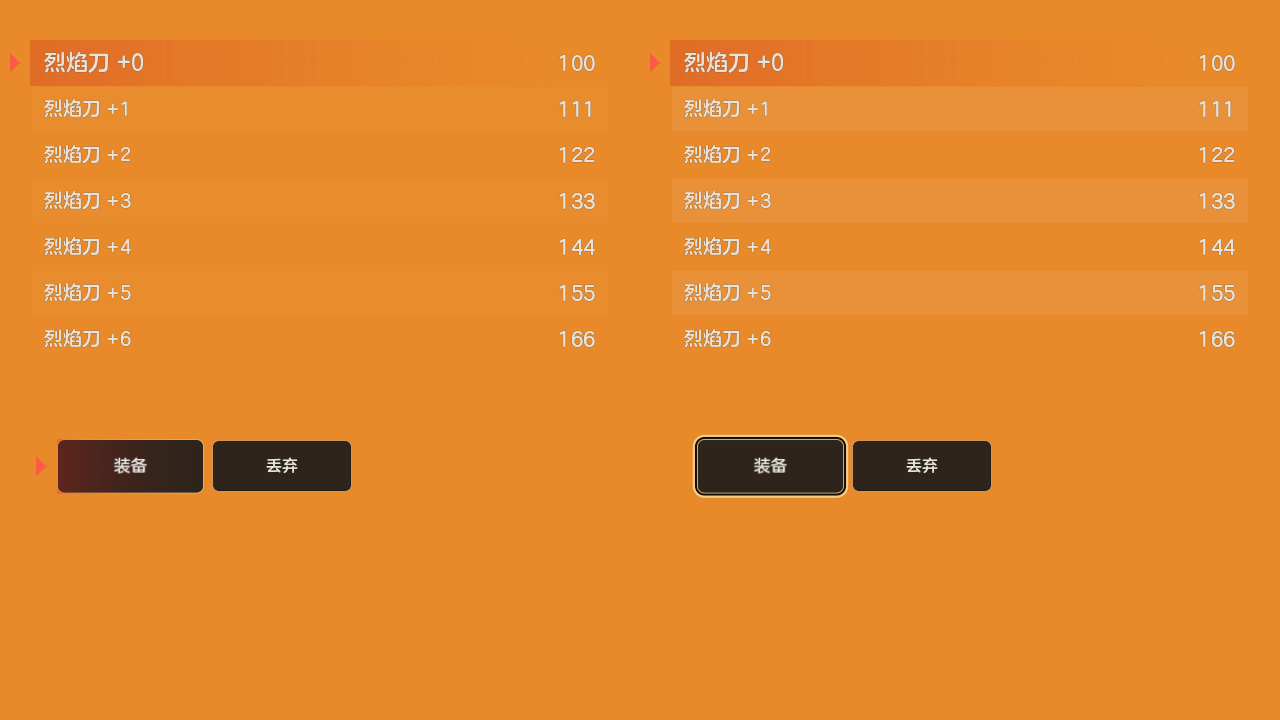
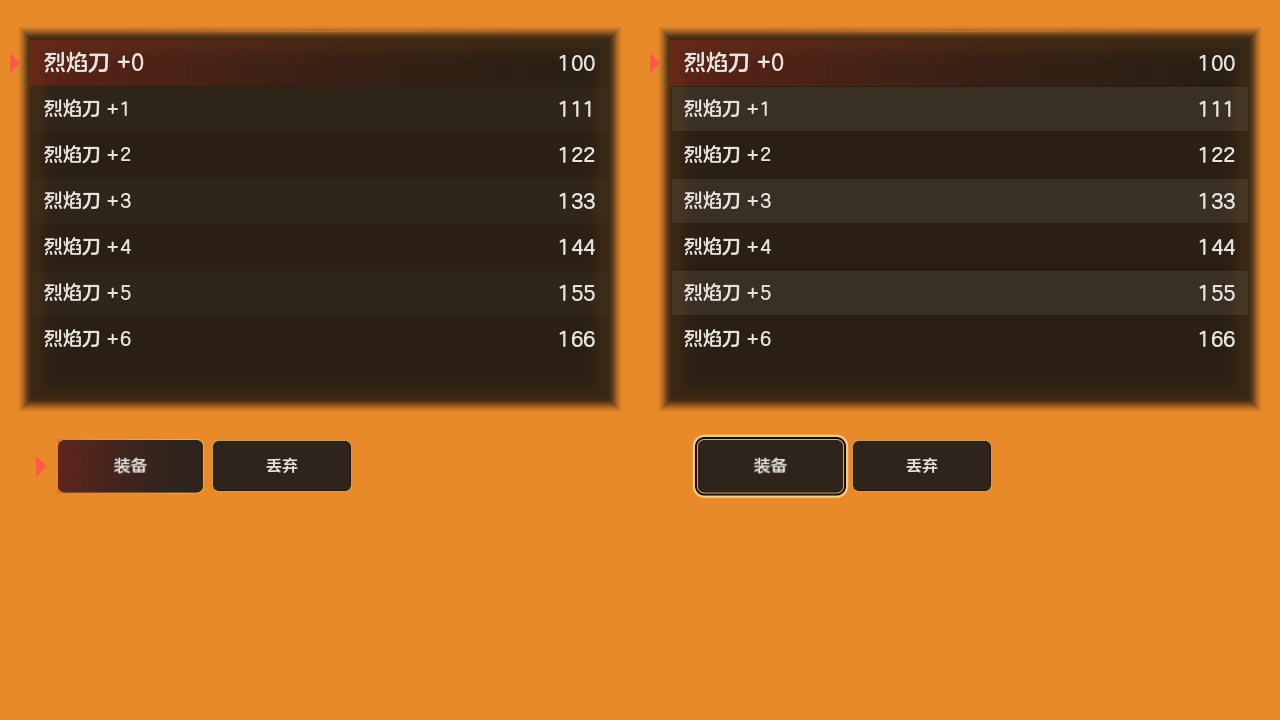
T349 r1 返修：选中球双环所有页可画并去红、悬停真 S4 保边框、补测试、图 3 套烟底
执行者: cc
核查: 待审查

diff --git a/00_项目管理/交付/luiluu_t349.md b/00_项目管理/交付/luiluu_t349.md
@@ -12,10 +12,11 @@
   - `skin_confirm.gd`：弹窗钮（去掉叠画的 `draw_select(r.grow(3))`、焦点钮不再垫红晕＝去红叠红）、钮距 8→12px（`btn_gap()`）、弹窗底改 S3（`s3_panel_tex()`，暖 `#36302e→#25201f` 94%）。
   - `skin_card.gd`：详情牌底部按钮同上；展开面底改 S3。
   - `skin_stepper.gd`：整条聚焦＝围着底托画双环；钮底 S2。
-  - `skin_button.gd`＋`skin_select_style.gd`：`XSkinButton.apply` 的 focus 样式换成双环模式（`XSkinSelectStyle.ring`），hover 只抬 S4 底，pressed 照旧。
-  - `skin_ring_nav.gd`：选中球手柄／键盘态画内黑外淡金双环，鼠标／触屏仍是原选中描边。
+  - `skin_button.gd`＋`skin_select_style.gd`：`XSkinButton.apply` 的 focus 样式换成双环模式（`XSkinSelectStyle.ring`）；hover 改成 `normal` 的拷贝＋真 S4 实心底（`#413a38`），保留原边框圆角，触屏不抬；pressed 照旧。
+  - `skin_ring_nav.gd`：选中球手柄／键盘态画内黑外淡金双环，所有页都画（非装备页在 `_draw` 里画、装备页在 `_draw_layers` 补画），且不再叠红晕和 2.5px 红圈；鼠标／触屏仍是原选中描边。
 - 色阶：`skin_list.gd` 斑马纹 0.026→S2z 0.08；`skin_gear_detail.gd` 对比表斑马纹同；`skin_boss_status.gd` 子卡底、详情头底升 S2（0.09）。
-- 测试：新增 `xiyou_ui_detail_d1b`（30 项，10 项无头＋20 项带窗口取像素：手柄态焦点钮上缘外 1px 内黑、3px 淡金；两钮缝中无金；触屏／鼠标态不留环；关＝无淡金环；钮距 12／8；弹窗与展开面 S3；斑马纹开比关亮）。`xiyou_ui_skin_d1a` 删掉原来的「现有页面逐像素相同」和 Q1 样稿窗口段（接线后前提不再成立，由 d1b 接手）。选测 33 个相关 UI 场景本机全过。
+- r1 返修（小A核退回）：P1-1 选中球双环非装备页画不到＋红晕红圈未去；P1-2 悬停只画 9% 透明无边框；P2-1 补测试、图 3 套烟底；P3-1 数量条底托触屏态不留金边（`skin_stepper.gd`）。P3-1 里手写魔数底色（数量条底托、详情牌次钮）没改。
+- 测试：新增 `xiyou_ui_detail_d1b`（r1 后 45 项：返修补了选中球双环 plain／layers×手柄／触屏／关、悬停真画取像素、对比表斑马纹实绘；原 30 项为 10 项无头＋20 项带窗口取像素：手柄态焦点钮上缘外 1px 内黑、3px 淡金；两钮缝中无金；触屏／鼠标态不留环；关＝无淡金环；钮距 12／8；弹窗与展开面 S3；斑马纹开比关亮）。`xiyou_ui_skin_d1a` 删掉原来的「现有页面逐像素相同」和 Q1 样稿窗口段（接线后前提不再成立，由 d1b 接手）。选测 33 个相关 UI 场景本机全过。
 - 玩家可见：用手柄／键盘时，按钮、确认弹窗钮、数量条、选中球外圈变成淡金双环，不再红叠红；弹窗两钮间距更宽；列表斑马纹更清楚。鼠标／触屏点完后不留环。
 
 ## 交接板
@@ -35,8 +36,8 @@
 ## 我不同意的地方 / 没做
 
 - `skin_inner_tabs.gd`、`skin_back_button.gd` 没接双环：页内页签是 Q／E 切页、没有焦点态（当前页是「选中」不是「聚焦」，规范 2.1 说选中不归双环管），返回钮只是个记号、不可聚焦，硬加会在没焦点时亮环。要不要给它们设焦点态，请 Kyo／规范作者定。
+- `XSkinBossStatus` 的 S2 子卡底是 XMVCanvas 内画，没有实绘像素断言（只有代码改动）。
 - 没做 `DETAIL_V1=false` 对旧画法的逐像素对照（没有改前基线图，只做了开关关＝无淡金环、仍走旧选中条、钮距回 8 的断言）。
-- `skin_ring_nav.gd` 的双环没有单独测试，只靠手写代码和 `xiyou_tianqi_ring_style` 等现有场景不回归，没有看真画面。
 - 战斗指令环（`skin_battle_2c.gd` 等）本卡没动，卡上文件清单里没有。
 
 ## 本分支提交
